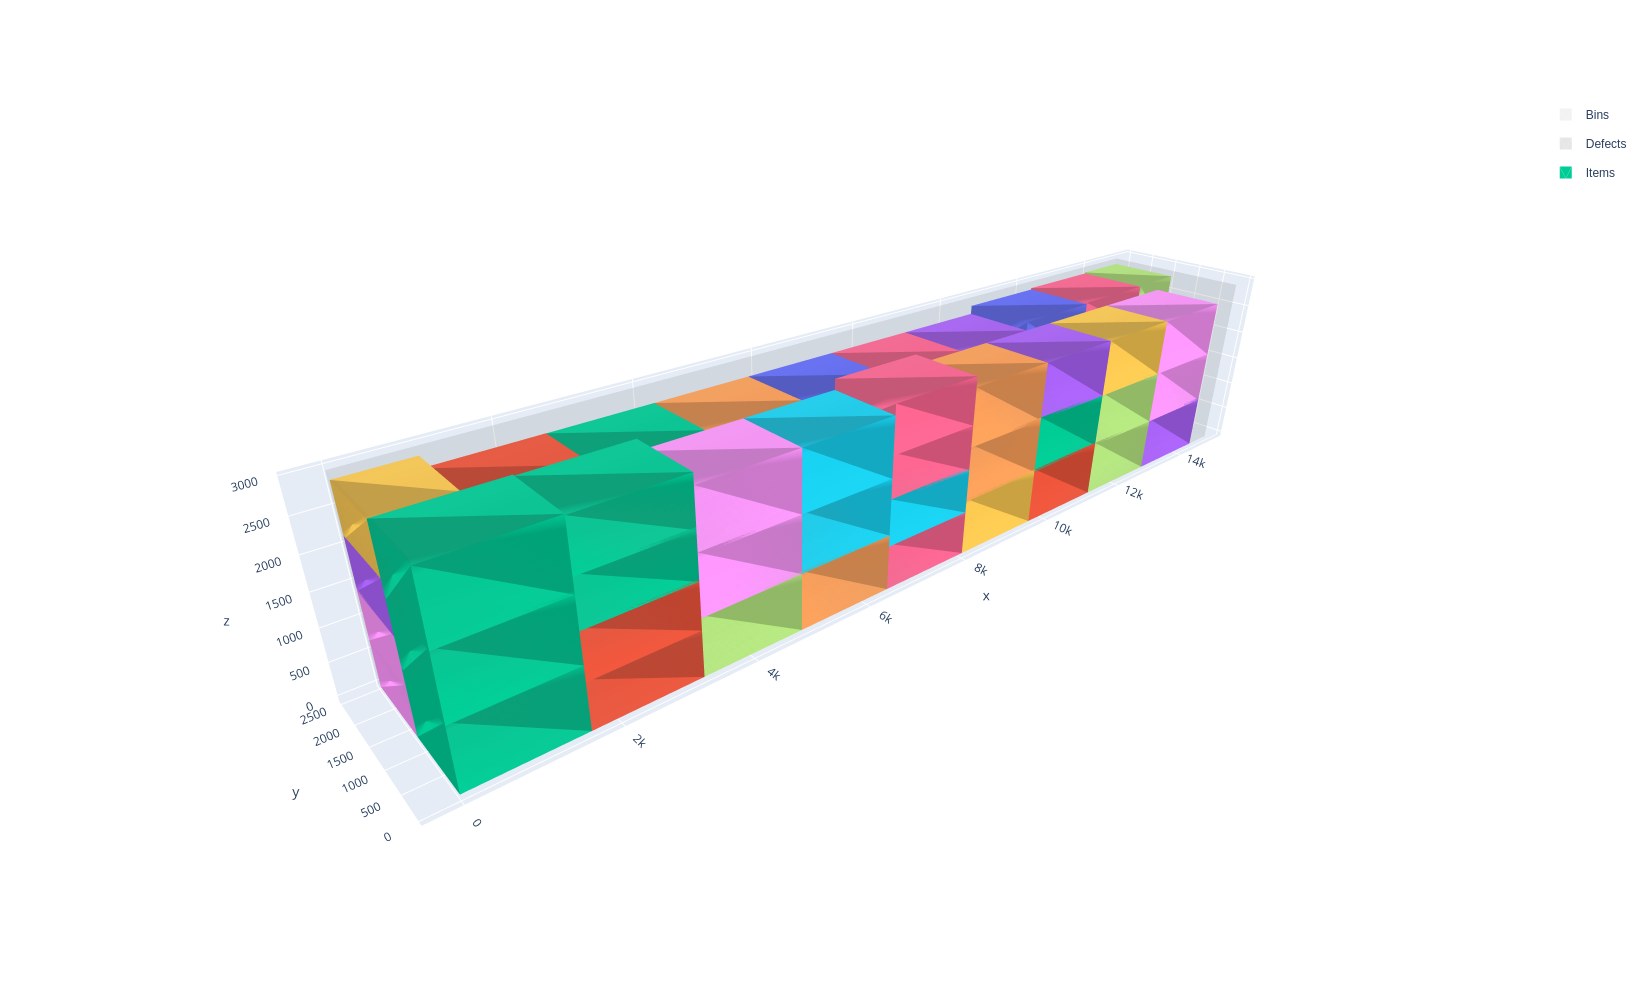
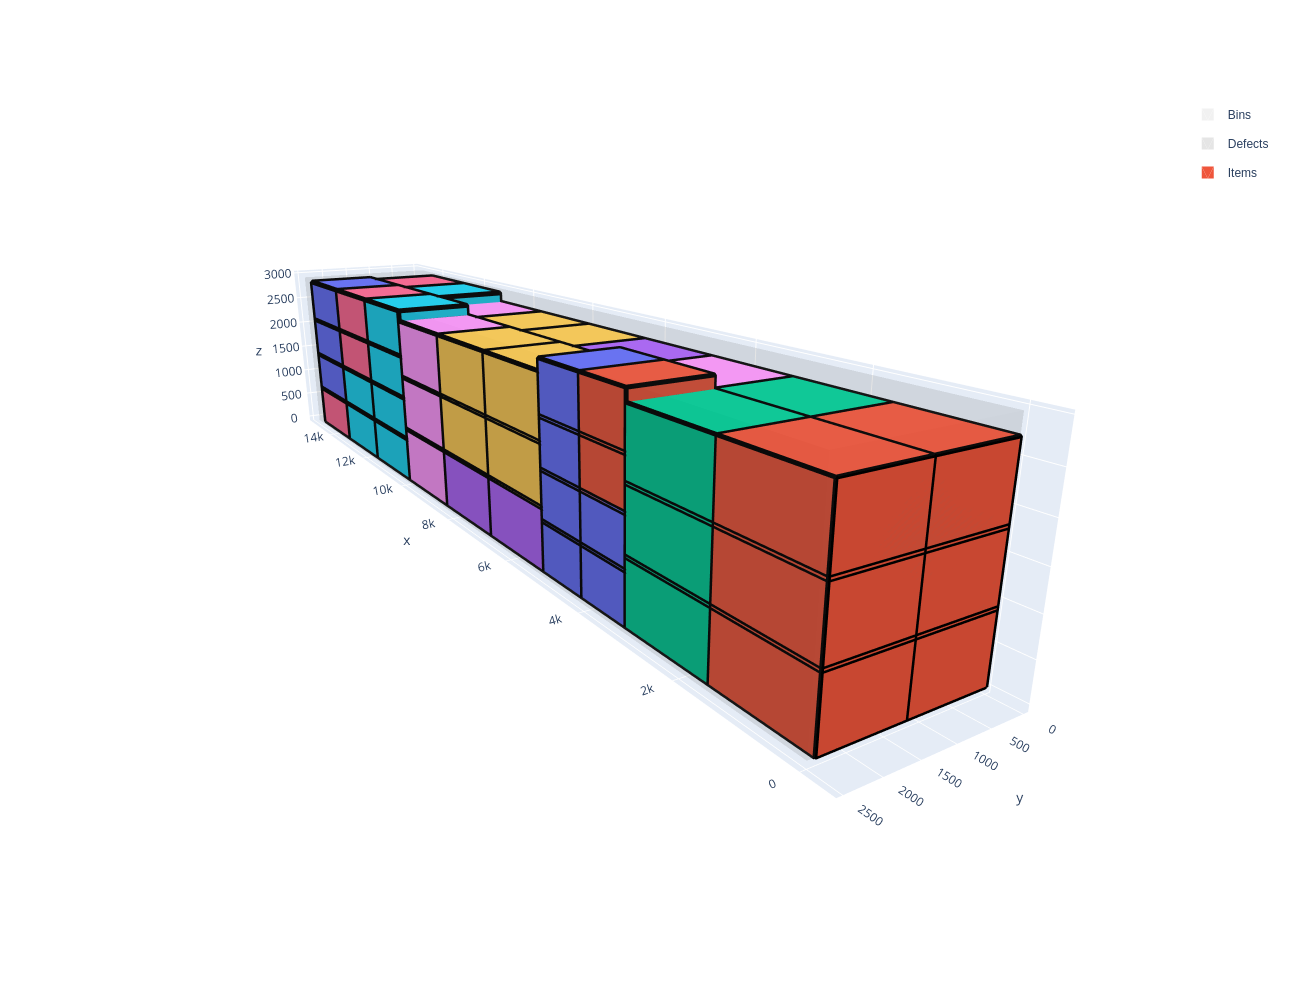
Various small fixes in boxstacks code

Changed region(s): [[0.1552, 0.248, 0.8379, 0.837], [0.931, 0.093, 0.993, 0.186]]

diff --git a/src/boxstacks/solution.cpp b/src/boxstacks/solution.cpp
@@ -444,15 +444,17 @@ void Solution::write(
     }
 
     file << "TYPE,ID,COPIES,BIN,STACK,X,Y,Z,LX,LY,LZ" << std::endl;
-    for (BinPos i = 0; i < (BinPos)bins_.size(); ++i) {
-        const SolutionBin& bin = bins_[i];
+    for (BinPos bin_pos = 0;
+            bin_pos < number_of_different_bins();
+            ++bin_pos) {
+        const SolutionBin& bin = bins_[bin_pos];
         BinTypeId bin_type_id = bin.bin_type_id;
         const BinType& bin_type = instance().bin_type(bin_type_id);
         file
             << "BIN,"
             << bin_type_id << ","
             << bin.copies << ","
-            << i << ","
+            << bin_pos << ","
             << "-1,"
             << "0,"
             << "0,"
@@ -469,7 +471,7 @@ void Solution::write(
                 << "DEFECT,"
                 << defect_id << ","
                 << bin.copies << ","
-                << i << ","
+                << bin_pos << ","
                 << "-1,"
                 << defect.pos.x << ","
                 << defect.pos.y << ","
@@ -486,7 +488,7 @@ void Solution::write(
                 << "STACK,"
                 << stack_id << ","
                 << bin.copies << ","
-                << i << ","
+                << bin_pos << ","
                 << stack_id << ","
                 << stack.x_start << ","
                 << stack.y_start << ","
@@ -501,7 +503,7 @@ void Solution::write(
                     << "ITEM,"
                     << item.item_type_id << ","
                     << bin.copies << ","
-                    << i << ","
+                    << bin_pos << ","
                     << stack_id << ","
                     << stack.x_start << ","
                     << stack.y_start << ","
@@ -555,9 +557,9 @@ void Solution::format(
             << "Number of stacks:  " << number_of_stacks() << std::endl
             << "Stack area:        " << stack_area() << std::endl
             << "Number of bins:    " << optimizationtools::Ratio<BinPos>(number_of_bins(), instance().number_of_bins()) << std::endl
-            << "Bin volume:        " << optimizationtools::Ratio<BinPos>(bin_volume(), instance().bin_volume()) << std::endl
-            << "Bin area:          " << optimizationtools::Ratio<BinPos>(bin_area(), instance().bin_area()) << std::endl
-            << "Bin weight:        " << optimizationtools::Ratio<BinPos>(bin_weight(), instance().bin_weight()) << std::endl
+            << "Bin volume:        " << optimizationtools::Ratio<Volume>(bin_volume(), instance().bin_volume()) << std::endl
+            << "Bin area:          " << optimizationtools::Ratio<Area>(bin_area(), instance().bin_area()) << std::endl
+            << "Bin weight:        " << optimizationtools::Ratio<Weight>(bin_weight(), instance().bin_weight()) << std::endl
             << "Bin cost:          " << cost() << std::endl
             << "Waste:             " << waste() << std::endl
             << "Waste (%):         " << 100 * waste_percentage() << std::endl

diff --git a/scripts/visualize_boxstacks.py b/scripts/visualize_boxstacks.py
@@ -26,6 +26,9 @@ items_z = []
 items_i = []
 items_j = []
 items_k = []
+item_borders_x = []
+item_borders_y = []
+item_borders_z = []
 items_colors = []
 item_ids_x = []
 item_ids_y = []
@@ -68,6 +71,9 @@ with open(args.csvpath, newline='') as csvfile:
             items_j.append([])
             items_k.append([])
             items_colors.append([])
+            item_borders_x.append([])
+            item_borders_y.append([])
+            item_borders_z.append([])
             item_ids_x.append([])
             item_ids_y.append([])
             item_ids_z.append([])
@@ -109,6 +115,9 @@ with open(args.csvpath, newline='') as csvfile:
             items_i[i][k] = [a + 0, a + 3, a + 4, a + 7, a + 0, a + 5, a + 2, a + 7, a + 0, a + 6, a + 1, a + 7]
             items_j[i][k] = [a + 1, a + 1, a + 5, a + 5, a + 1, a + 1, a + 3, a + 3, a + 2, a + 2, a + 3, a + 3]
             items_k[i][k] = [a + 2, a + 2, a + 6, a + 6, a + 4, a + 4, a + 6, a + 6, a + 4, a + 4, a + 5, a + 5]
+            item_borders_x[i] += [x1, x1, x2, x2, x2, x2, x1, x1, x1, None, x1, x1, x2, x2, x2, x2, x1, x1, x1, None]
+            item_borders_y[i] += [y1, y1, y1, y1, y2, y2, y2, y2, y1, None, y1, y1, y1, y1, y2, y2, y2, y2, y1, None]
+            item_borders_z[i] += [z1, z2, z2, z1, z1, z2, z2, z1, z1, None, z2, z1, z1, z2, z2, z1, z1, z2, z2, None]
             item_ids_x[i].append((x1 + x2) / 2)
             item_ids_y[i].append((y1 + y2) / 2)
             item_ids_z[i].append((z1 + z2) / 2)
@@ -169,9 +178,22 @@ for i in range(0, m):
             legendgroup="items",
             showlegend=(i == 0 and k == 0),
             opacity=1,
+            flatshading=True,
             color=colors[(int(item_ids[i][k]) % len(colors))]),
             row=i + 1,
             col=1)
+
+    fig.add_trace(go.Scatter3d(
+        x=item_borders_x[i],
+        y=item_borders_y[i],
+        z=item_borders_z[i],
+        name="Item borders",
+        legendgroup="items",
+        showlegend=False,
+        mode="lines",
+        line=dict(color="black", width=10)),
+        row=i + 1,
+        col=1)
 
     fig.add_trace(go.Scatter3d(
         x=item_ids_x[i],

diff --git a/include/packingsolver/boxstacks/instance.hpp b/include/packingsolver/boxstacks/instance.hpp
@@ -131,7 +131,7 @@ struct ItemType
     ItemPos maximum_stackability = std::numeric_limits<ItemPos>::max();
 
     /** Maximum weight of the items packed above items of this type. */
-    Weight maximum_weight_above = std::numeric_limits<Weight>::max();
+    Weight maximum_weight_above = std::numeric_limits<Weight>::infinity();
 
     /*
      * Computed attributes

diff --git a/include/packingsolver/boxstacks/solution.hpp b/include/packingsolver/boxstacks/solution.hpp
@@ -339,7 +339,7 @@ private:
     Area stack_area_ = 0;
 
     /** Total weight of the bins of the solution. */
-    Volume bin_weight_ = 0;
+    Weight bin_weight_ = 0;
 
     /** Cost of the solution. */
     Profit bin_cost_ = 0;
